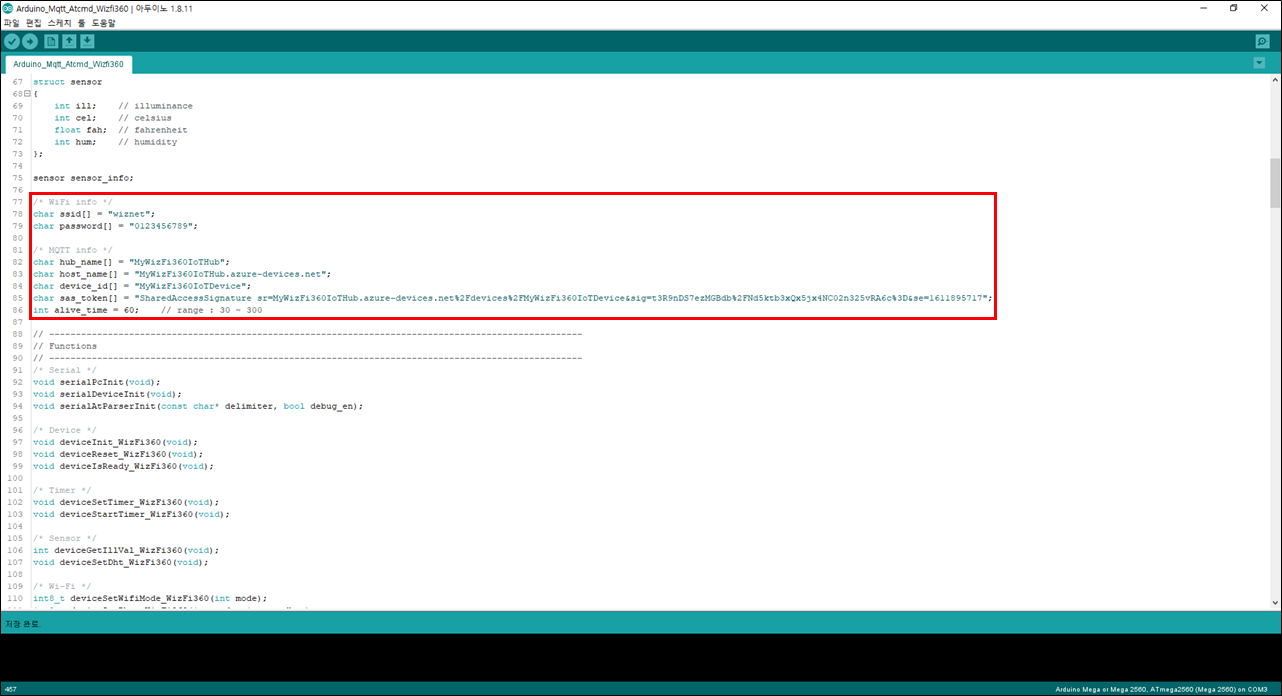
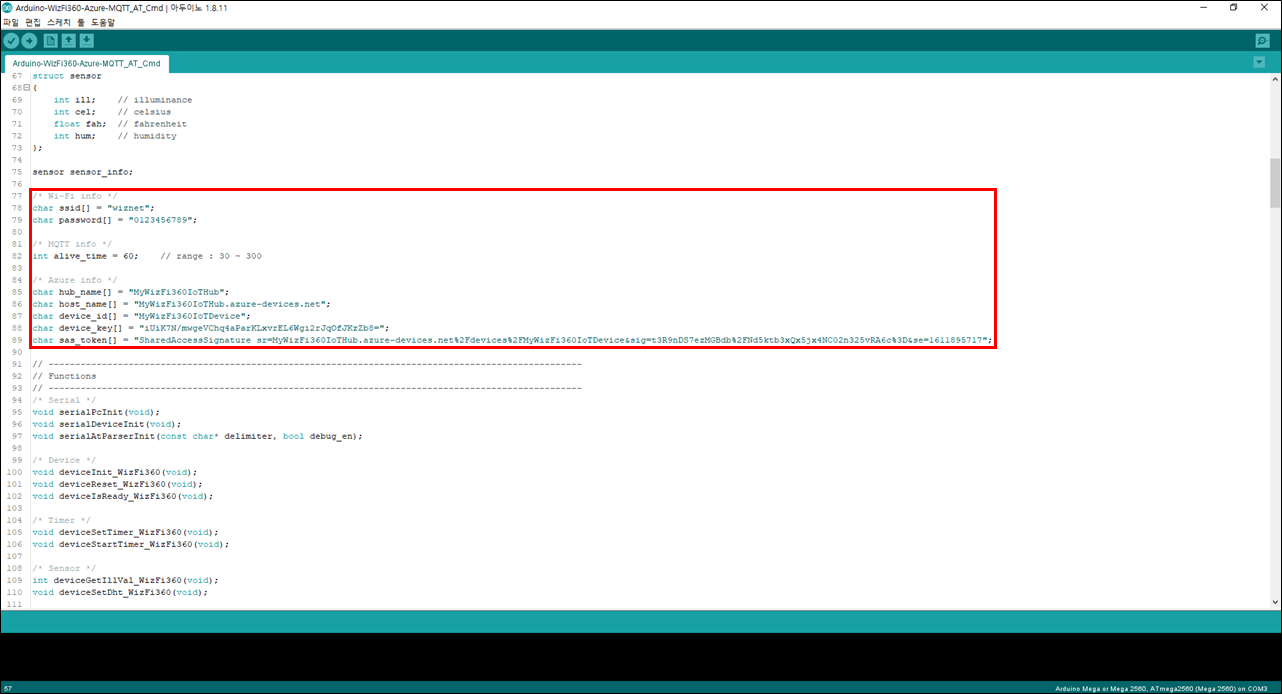
Update .md file and image files

Changed region(s): [[0.0, 0.0, 0.9984, 0.9078], [0.8112, 0.9683, 0.9984, 0.9986], [0.0, 0.9683, 0.0312, 0.9986]]

diff --git a/docs/IoT_device/Connectivities/Wi-Fi/arduino_mqtt_atcmd_wizfi360.md b/docs/IoT_device/Connectivities/Wi-Fi/arduino_mqtt_atcmd_wizfi360.md
@@ -115,16 +115,19 @@ Hardware 설정 후, USB Type-B Cable을 이용하여 Arduino Mega 2560을 Deskt
 Azure IoT Hub에 연결을 하기 위하여, 다음의 Parameter를 수정합니다.
 
 ```cpp
-/* WiFi info */
+/* Wi-Fi info */
 char ssid[] = "xxxxxxxxxx";
 char password[] = "xxxxxxxxxx";
 
 /* MQTT info */
+int alive_time = xx;    // range : 30 ~ 300
+
+/* Azure info */
 char hub_name[] = "xxxxxxxxxx";
 char host_name[] = "xxxxxxxxxx";
 char device_id[] = "xxxxxxxxxx";
+char device_key[] = "xxxxxxxxxx";
 char sas_token[] = "xxxxxxxxxx";
-int alive_time = xx;    // range : 30 ~ 300
 ```
 
 ![][Link-Execute_Project_Through_Arduino_Ide_1]
